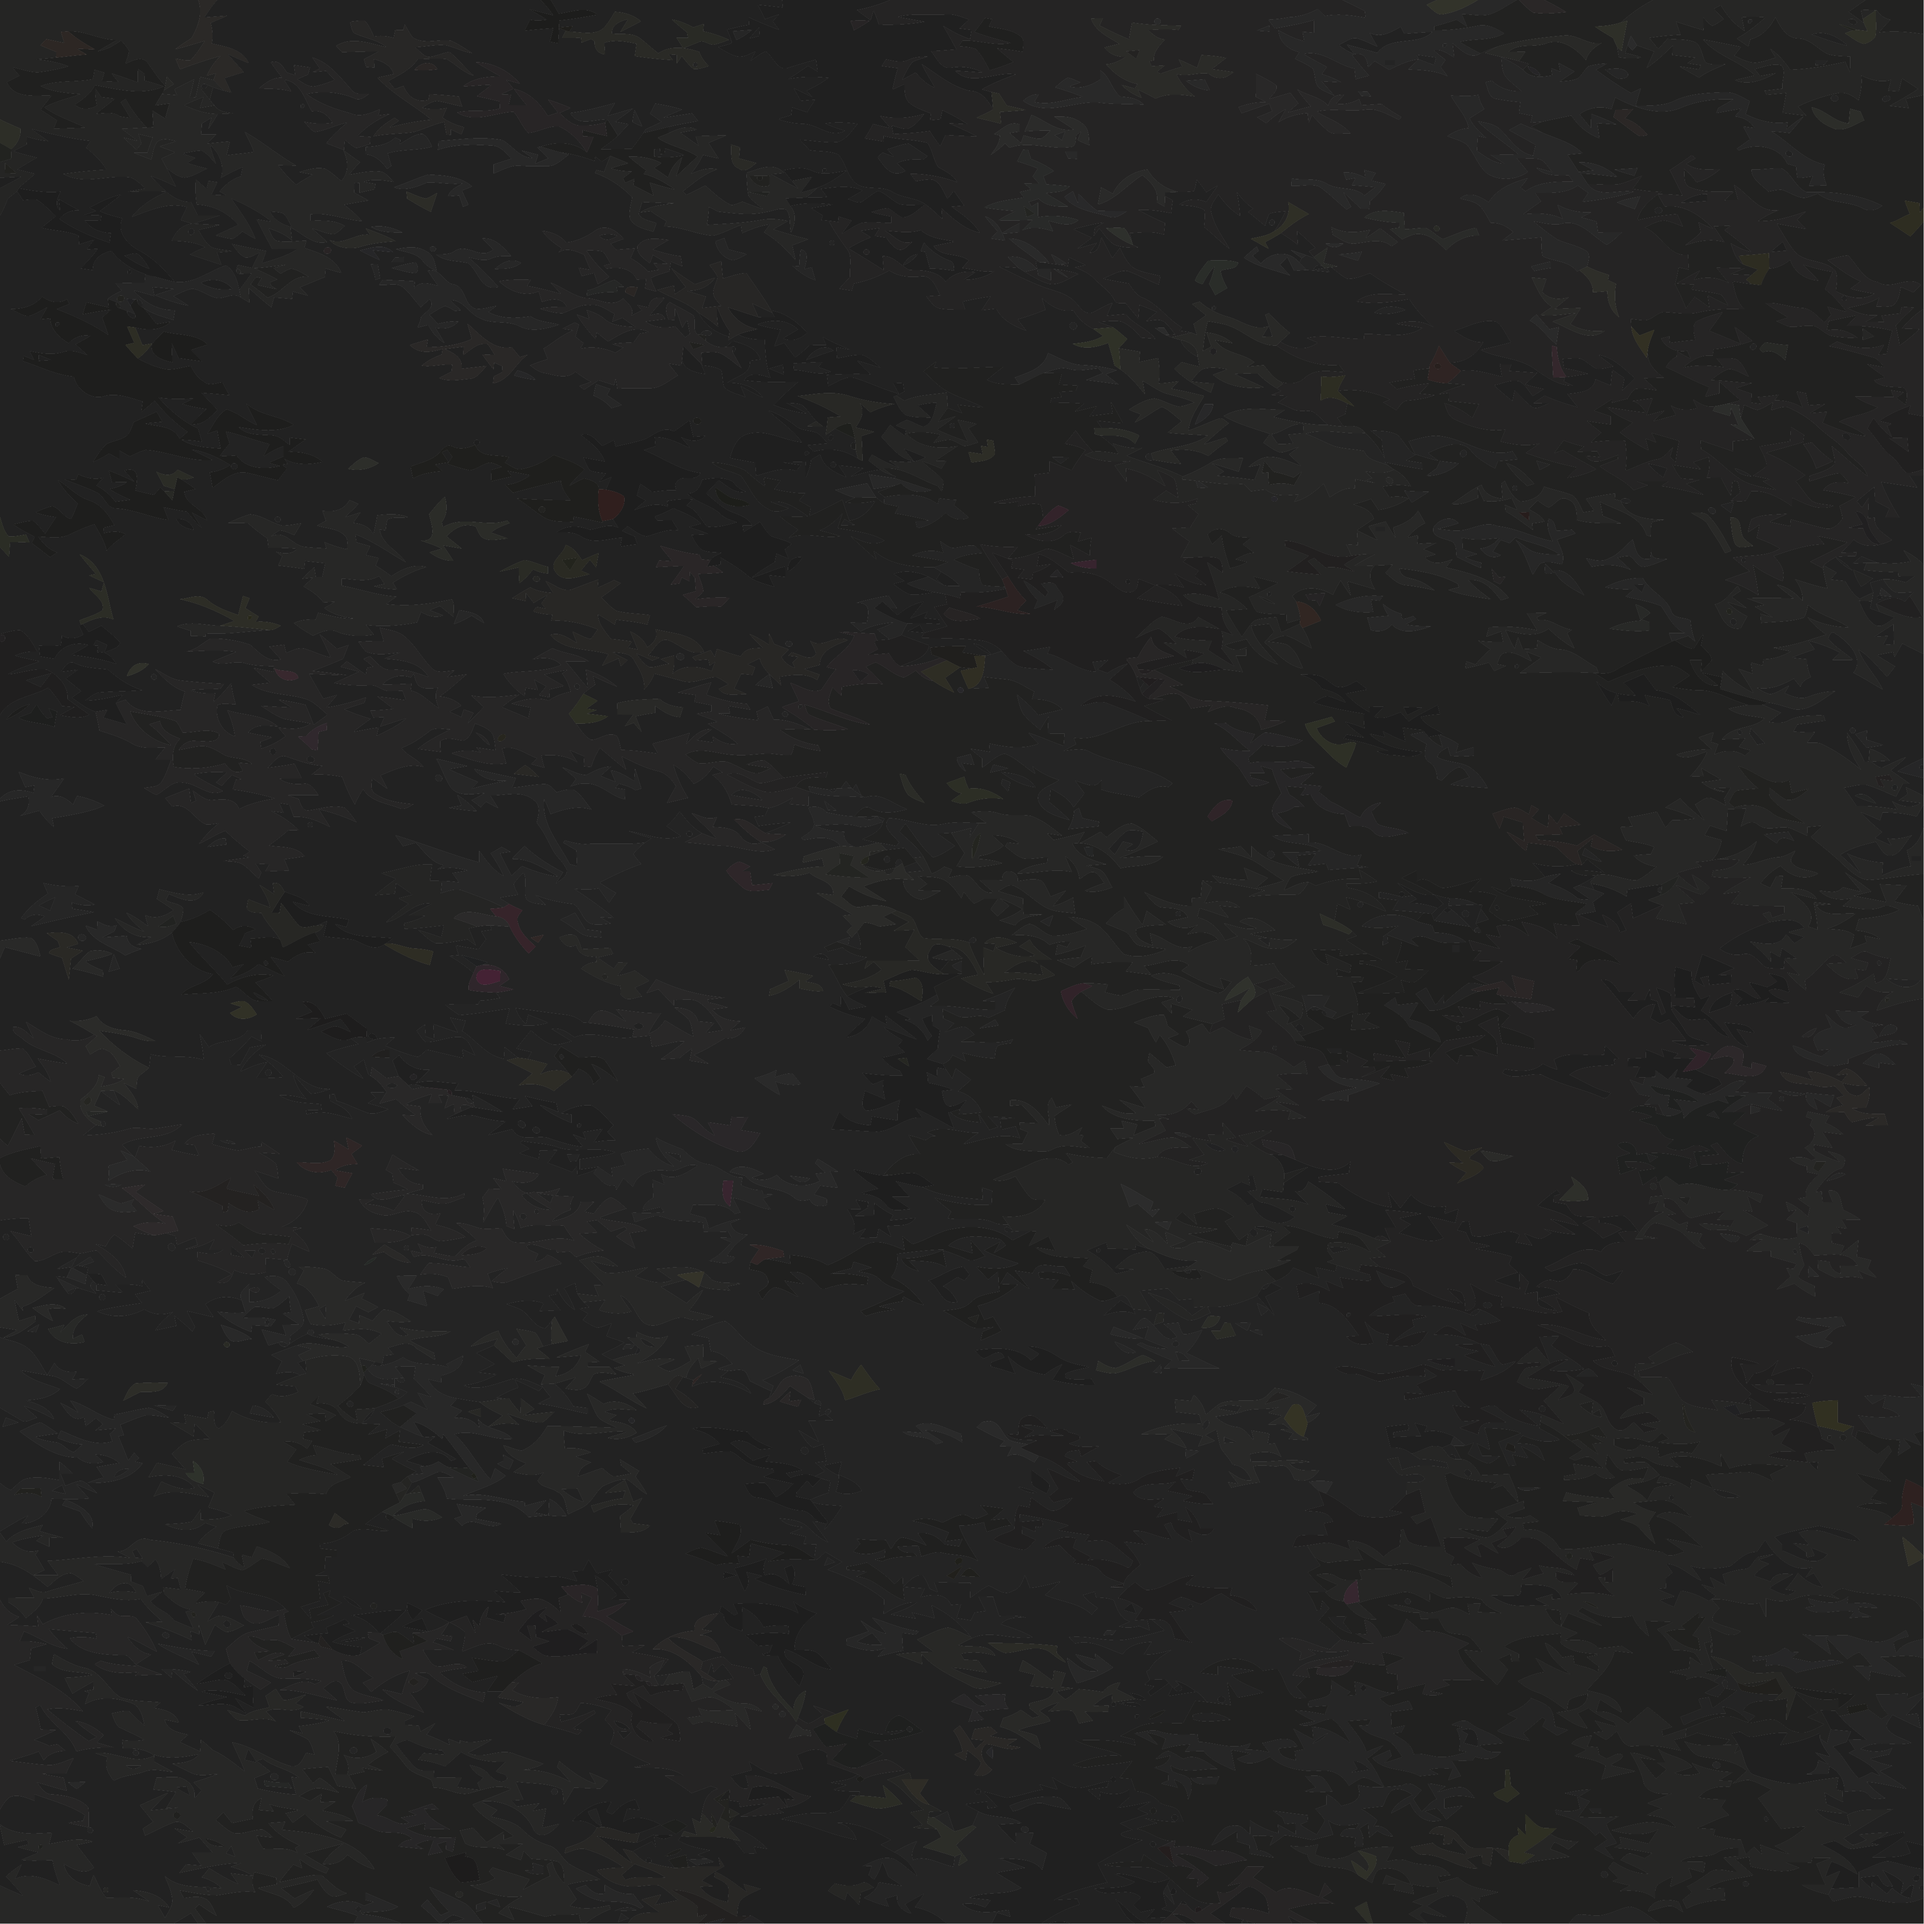
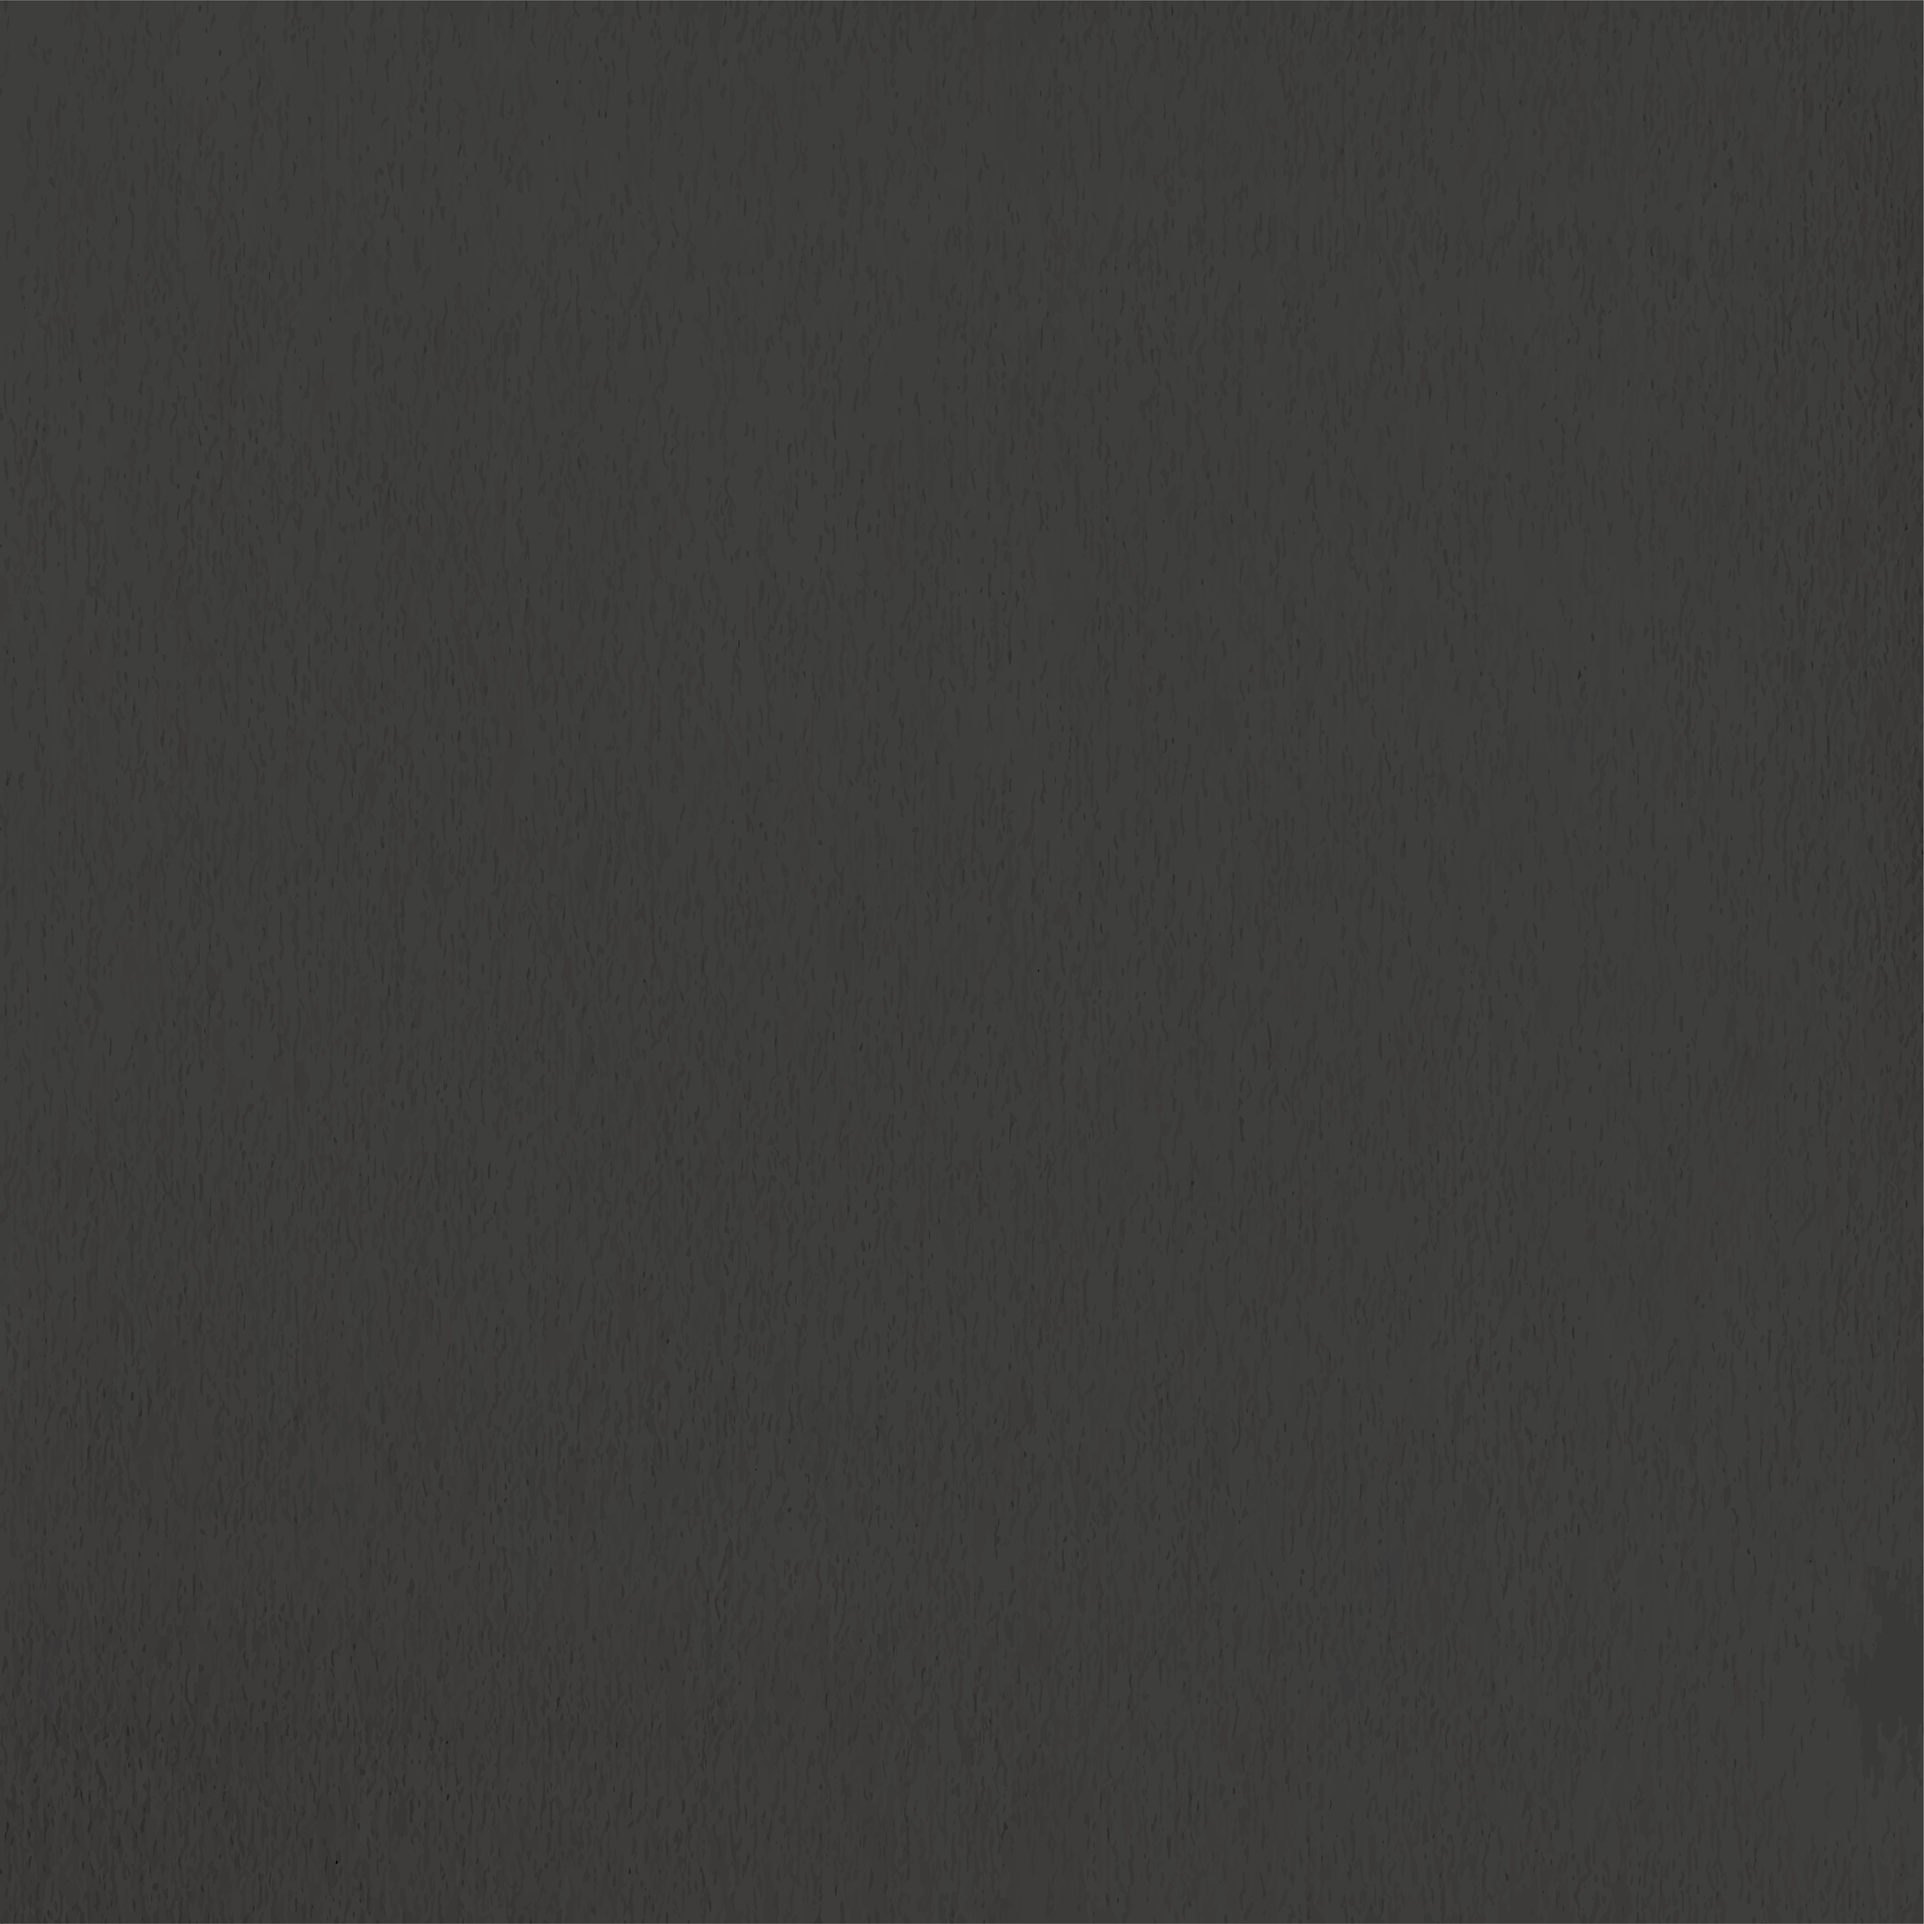
added new background textures, made them theme responsive, added theme responsive nav links to nav bar, built out template pages, mild changes to CSS

diff --git a/src/components/navComponents/desktop/navItemsDesktop.jsx b/src/components/navComponents/desktop/navItemsDesktop.jsx
@@ -1,0 +1,112 @@
+import Box from "@mui/material/Box";
+import Button from "@mui/material/Button";
+import { Link } from "react-router-dom";
+import { motion } from "framer-motion";
+import { useTheme } from "@mui/material/styles"; // Fix the theme import
+import { alpha } from "@mui/material"; // Ensure you have alpha imported
+
+function NavItemsDesktop() {
+  const theme = useTheme(); // Access the theme
+  const themeMode = theme.palette.mode;
+
+  // Define text color based on the theme mode
+  const textColor =
+    themeMode === "light"
+      ? theme.palette.background.inverse // or any other color for light mode
+      : theme.palette.background.inverse; // or any other color for dark mode
+
+  let divVariants = {
+    initial: { opacity: 0 },
+    animate: {
+      opacity: 1,
+      transition: {
+        duration: 1.2,
+        ease: "easeInOut",
+        delay: 0.3,
+      },
+    },
+  };
+
+  return (
+    <motion.div variants={divVariants} initial="initial" animate="animate">
+      <Box
+        sx={{
+          display: { xs: "none", lg: "flex" },
+          textAlign: "center",
+        }}
+      >
+        <Link className="m10" to="/poems">
+          <Button
+            className="navLink"
+            sx={{
+              marginX: "1rem",
+              fontWeight: 300,
+              fontSize: "115%",
+              fontFamily: "GothamLight",
+              whiteSpace: "nowrap",
+              flexGrow: 1,
+              color: textColor, // Use the dynamic text color
+            }}
+            fullWidth={true}
+          >
+            poems
+          </Button>
+        </Link>
+        <Link className="m10" to="/pens">
+          <Button
+            className="navLink"
+            sx={{
+              marginX: "1rem",
+              fontWeight: 300,
+              fontSize: "115%",
+              fontFamily: "GothamLight",
+              whiteSpace: "nowrap",
+              flexGrow: 1,
+              color: textColor, // Use the dynamic text color
+            }}
+            fullWidth={true}
+          >
+            pens
+          </Button>
+        </Link>
+        {/* TODO: only show profile link if logged in */}
+        <Link className="m10" to="/ink">
+          <Button
+            className="navLink"
+            sx={{
+              marginX: "1rem",
+              fontWeight: 300,
+              fontSize: "115%",
+              fontFamily: "GothamLight",
+              whiteSpace: "nowrap",
+              flexGrow: 1,
+              color: textColor, // Use the dynamic text color
+            }}
+            fullWidth={true}
+          >
+            ink
+          </Button>
+        </Link>
+        <Link className="m10" to="/paper">
+          <Button
+            className="navLink"
+            sx={{
+              marginX: "1rem",
+              fontWeight: 300,
+              fontSize: "115%",
+              fontFamily: "GothamLight",
+              whiteSpace: "nowrap",
+              flexGrow: 1,
+              color: textColor, // Use the dynamic text color
+            }}
+            fullWidth={true}
+          >
+            paper
+          </Button>
+        </Link>
+      </Box>
+    </motion.div>
+  );
+}
+
+export default NavItemsDesktop;

diff --git a/src/components/appBarComponents/appBar.tsx b/src/components/appBarComponents/appBar.tsx
@@ -4,6 +4,7 @@ import AppBar from "@mui/material/AppBar";
 import Box from "@mui/material/Box";
 import Toolbar from "@mui/material/Toolbar";
 import IconButton from "@mui/material/IconButton";
+import Typography from "@mui/material/Typography";
 import InputBase from "@mui/material/InputBase";
 import Badge from "@mui/material/Badge";
 import MenuItem from "@mui/material/MenuItem";
@@ -13,15 +14,18 @@ import SearchIcon from "@mui/icons-material/Search";
 import AccountCircle from "@mui/icons-material/AccountCircle";
 import MailIcon from "@mui/icons-material/Mail";
 import NotificationsIcon from "@mui/icons-material/Notifications";
+import MoreIcon from "@mui/icons-material/MoreVert";
 
 const Search = styled("div")(({ theme }) => {
   const themeMode = theme.palette.mode;
-  // const backgroundColorLight = alpha("#222222", 0.15);
-  // const backgroundColorDark = alpha(theme.palette.common.white, 0.15);
+  const backgroundColorLight = alpha("#222222", 0.15);
+  const backgroundColorDark = alpha(theme.palette.common.white, 0.15);
 
   return {
     position: "relative",
     borderRadius: theme.shape.borderRadius,
+    backgroundColor:
+      themeMode === "light" ? backgroundColorLight : backgroundColorDark,
     transition: "background-color 0.5s, color 0.5s, filter 0.5s",
     "&:hover": {
       backgroundColor:

diff --git a/src/components/navComponents/Nav.jsx b/src/components/navComponents/Nav.jsx
@@ -1,6 +1,7 @@
 import PrimarySearchAppBar from "../appBarComponents/appBar";
 import { SwitchModeButton } from "../miscComponents/switchModeButton";
 import FullLogoDesktop from "./desktop/fullLogoDesktop";
+import NavItemsDesktop from "./desktop/navItemsDesktop";
 // import { useContext } from "react";
 // import AppBarHeightContext from "../../contexts/AppBarHeightContext";
 
@@ -30,8 +31,23 @@ export default function Nav() {
           }}
         >
           <PrimarySearchAppBar>
-            <FullLogoDesktop />
-            <SwitchModeButton />
+            <Box
+              sx={{
+                display: "flex",
+                flexDirection: "row",
+                alignItems: "center",
+              }}
+            >
+              <FullLogoDesktop />
+              <Box sx={{ justifyContent: "end" }}>
+                <NavItemsDesktop />
+              </Box>
+            </Box>
+
+            {/* This ensures that the SwitchModeButton remains on the right */}
+            <Box sx={{ display: "flex", justifyContent: "flex-end" }}>
+              <SwitchModeButton />
+            </Box>
           </PrimarySearchAppBar>
         </Box>
       </Toolbar>

diff --git a/src/index.css b/src/index.css
@@ -15,13 +15,13 @@
 }
 
 :root {
-  font-family: Inter, system-ui, Avenir, Helvetica, Arial, sans-serif;
+  /* font-family: Inter, system-ui, Avenir, Helvetica, Arial, sans-serif;
   line-height: 1.5;
-  font-weight: 400;
+  font-weight: 400; */
 
-  color-scheme: light dark;
-  color: #f6f7eb;
-  background-color: #242424;
+  /* color-scheme: light dark; */
+  /* color: #f6f7eb; */
+  /* background-color: #242424; */
 
   font-synthesis: none;
   text-rendering: optimizeLegibility;
@@ -62,7 +62,7 @@ button {
   font-size: 1em;
   font-weight: 500;
   font-family: inherit;
-  background-color: #1a1a1a;
+  /* background-color: #1a1a1a; */
   cursor: pointer;
   transition: border-color 0.25s;
 }
@@ -74,7 +74,7 @@ button:focus-visible {
   outline: 4px auto -webkit-focus-ring-color;
 }
 
-@media (prefers-color-scheme: light) {
+/* @media (prefers-color-scheme: dark) {
   :root {
     color: #213547;
     background-color: #ffffff;
@@ -85,4 +85,4 @@ button:focus-visible {
   button {
     background-color: #f9f9f9;
   }
-}
+} */

diff --git a/src/App.jsx b/src/App.jsx
@@ -15,7 +15,7 @@ import { lightTheme } from "./themes/light";
 import { darkTheme } from "./themes/dark";
 
 //misc package imports
-import { AppBar, createTheme, CssBaseline, ThemeProvider } from "@mui/material";
+import { AppBar, createTheme, ThemeProvider } from "@mui/material";
 
 //component imports
 import Nav from "./components/navComponents/Nav";
@@ -42,9 +42,9 @@ function App() {
 
   return (
     <ColorContext.Provider value={colorMode}>
-      <Router>
-        <ThemeProvider theme={theme}>
-          <CssBaseline />
+      <ThemeProvider theme={theme}>
+        <Router>
+          {/* <CssBaseline /> */}
           <Nav />
           <Routes>
             <Route path="/ink" element={<Ink />} />
@@ -53,8 +53,8 @@ function App() {
             <Route path="/poems" element={<Poems />} />
             <Route path="/*" element={<HomePage />} />
           </Routes>
-        </ThemeProvider>
-      </Router>
+        </Router>
+      </ThemeProvider>
     </ColorContext.Provider>
   );
 }

diff --git a/src/App.css b/src/App.css
@@ -1,7 +1,7 @@
 @import url("https://fonts.googleapis.com/css2?family=Inter:ital,opsz,wght@0,14..32,100..900;1,14..32,100..900&family=Lato:ital,wght@0,100;0,300;0,400;0,700;0,900;1,100;1,300;1,400;1,700;1,900&family=Montserrat:ital,wght@0,100..900;1,100..900&display=swap");
 
 #root {
-  max-width: 1280px;
+  /* max-width: 1280px; */
   margin: 0 auto;
   padding: 2rem;
   text-align: center;
@@ -21,7 +21,12 @@
 }
 
 body {
-  transition: background-color 0.75s, color 0.75s;
+  transition: background-color 2s, color 0.75s;
+}
+
+.navLink:hover {
+  color: #61dafb;
+  transition: color 0.5s;
 }
 
 .flex,
@@ -87,15 +92,6 @@ body {
 
 .stroke25 {
   -webkit-text-stroke: 0.25px var(--black);
-}
-
-@keyframes logo-spin {
-  from {
-    transform: rotate(0deg);
-  }
-  to {
-    transform: rotate(360deg);
-  }
 }
 
 @media (prefers-reduced-motion: no-preference) {

diff --git a/src/components/miscComponents/backgroundImage.jsx b/src/components/miscComponents/backgroundImage.jsx
@@ -51,7 +51,8 @@ const BackgroundImage = () => {
           height: "100vh",
           zIndex: 1,
           opacity: fade ? 0 : 1,
-          transition: "opacity 0.75s", // Smooth fade-out effect
+          filter: "saturate(0%)",
+          transition: "opacity 0.5s linear", // Smooth fade-out effect
         }}
       />
       {/* Layer for the new image */}
@@ -71,10 +72,10 @@ const BackgroundImage = () => {
           left: 0,
           width: "100vw",
           height: "100vh",
-          zIndex: 2,
-
+          zIndex: 1,
+          filter: "saturate(0%)",
           opacity: fade ? 1 : 0,
-          transition: "opacity 0.75s", // Smooth fade-in effect
+          transition: "opacity 0.5s linear", // Smooth fade-in effect
         }}
       />
     </Box>

diff --git a/src/themes/dark.ts b/src/themes/dark.ts
@@ -7,6 +7,7 @@ declare module '@mui/material/styles' {
     strokeColor?: string;
     fillColor?: string;
     backgroundImage?: string;
+    inverse?: string;
   }
   interface TypeSvg {
     strokeColor?: string;
@@ -53,7 +54,8 @@ export const darkTheme = createTheme({
     },
     background: {
       default: '#111111',
-      strokeColor: '#ffffff',  // Custom property
+      inverse: "#F6F7EB",
+      strokeColor: '#F6F7EB',  // Custom property
       fillColor: '#000000',    // Custom property
       // backgroundImage: `url(${backgroundImage})`
     },

diff --git a/src/themes/light.ts b/src/themes/light.ts
@@ -6,6 +6,7 @@ declare module '@mui/material/styles' {
     strokeColor?: string;
     fillColor?: string;
     backgroundImage?: string;
+    inverse?: string;
   }
   interface TypeSvg {
     strokeColor?: string;
@@ -51,7 +52,8 @@ export const lightTheme = createTheme({
       main: '#EF959C',
     },
     background: {
-      default: '#ffffff',
+      default: '#F6F7EB',
+      inverse: "#222222",
       strokeColor: '#000000',  // Custom property
       fillColor: '#ffffff00', 
       // backgroundImage: `url(${backgroundImage})`   // Custom property

diff --git a/src/components/miscComponents/switchModeButton.tsx b/src/components/miscComponents/switchModeButton.tsx
@@ -17,7 +17,7 @@ export const SwitchModeButton = () => {
         fontFamily: "GothamBook",
         width: "100%",
         justifyContent: "end",
-        transition: "background-color 0.1s, color 0.1s",
+        transition: "color 0.1s",
       }}
     >
       <IconButton
